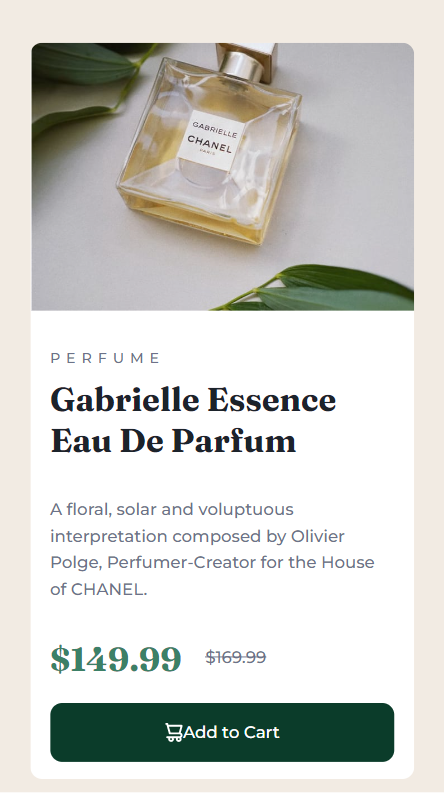
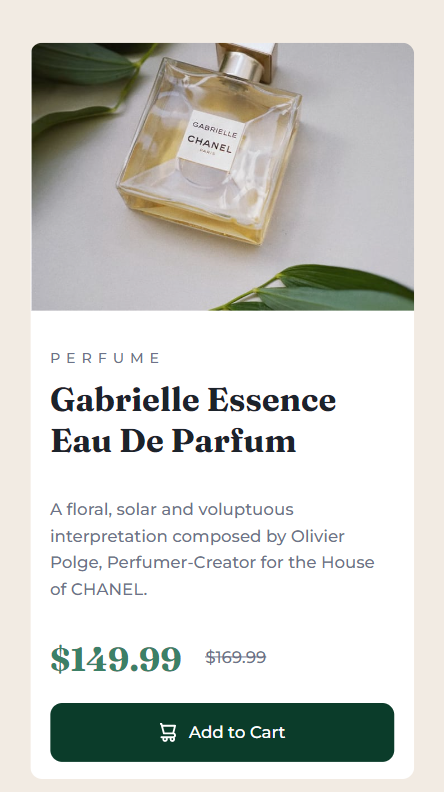
Fix 'Add to card' button

diff --git a/styles/style.css b/styles/style.css
@@ -84,7 +84,7 @@ p {
 .btn-title {
     color: hsl(0, 0%, 100%);
     margin: 0;
-    margin-left: 10 px;
+    margin-left: 10px;
 }
 
 @media (max-width: 375px) {

diff --git a/README.md b/README.md
@@ -2,7 +2,7 @@
 
 This is a solution to the [Product preview card component challenge on Frontend Mentor](https://www.frontendmentor.io/challenges/product-preview-card-component-GO7UmttRfa). Frontend Mentor challenges help you improve your coding skills by building realistic projects.
 
-## Table of contents
+## Table of contentsпше
 
 - [Overview](#overview)
   - [The challenge](#the-challenge)
